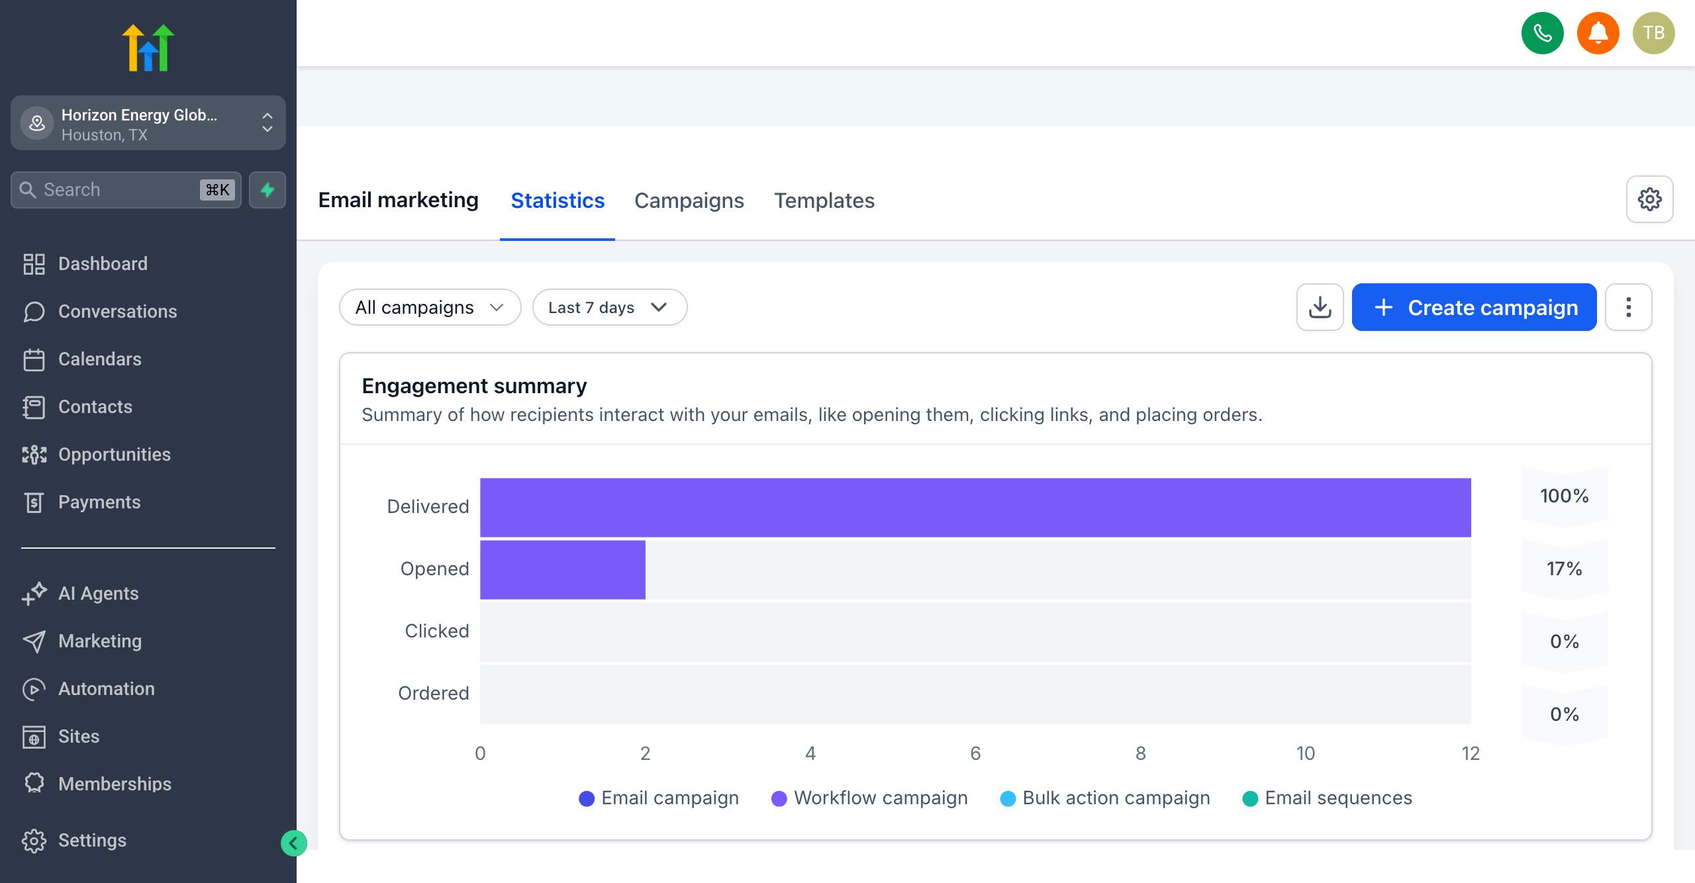
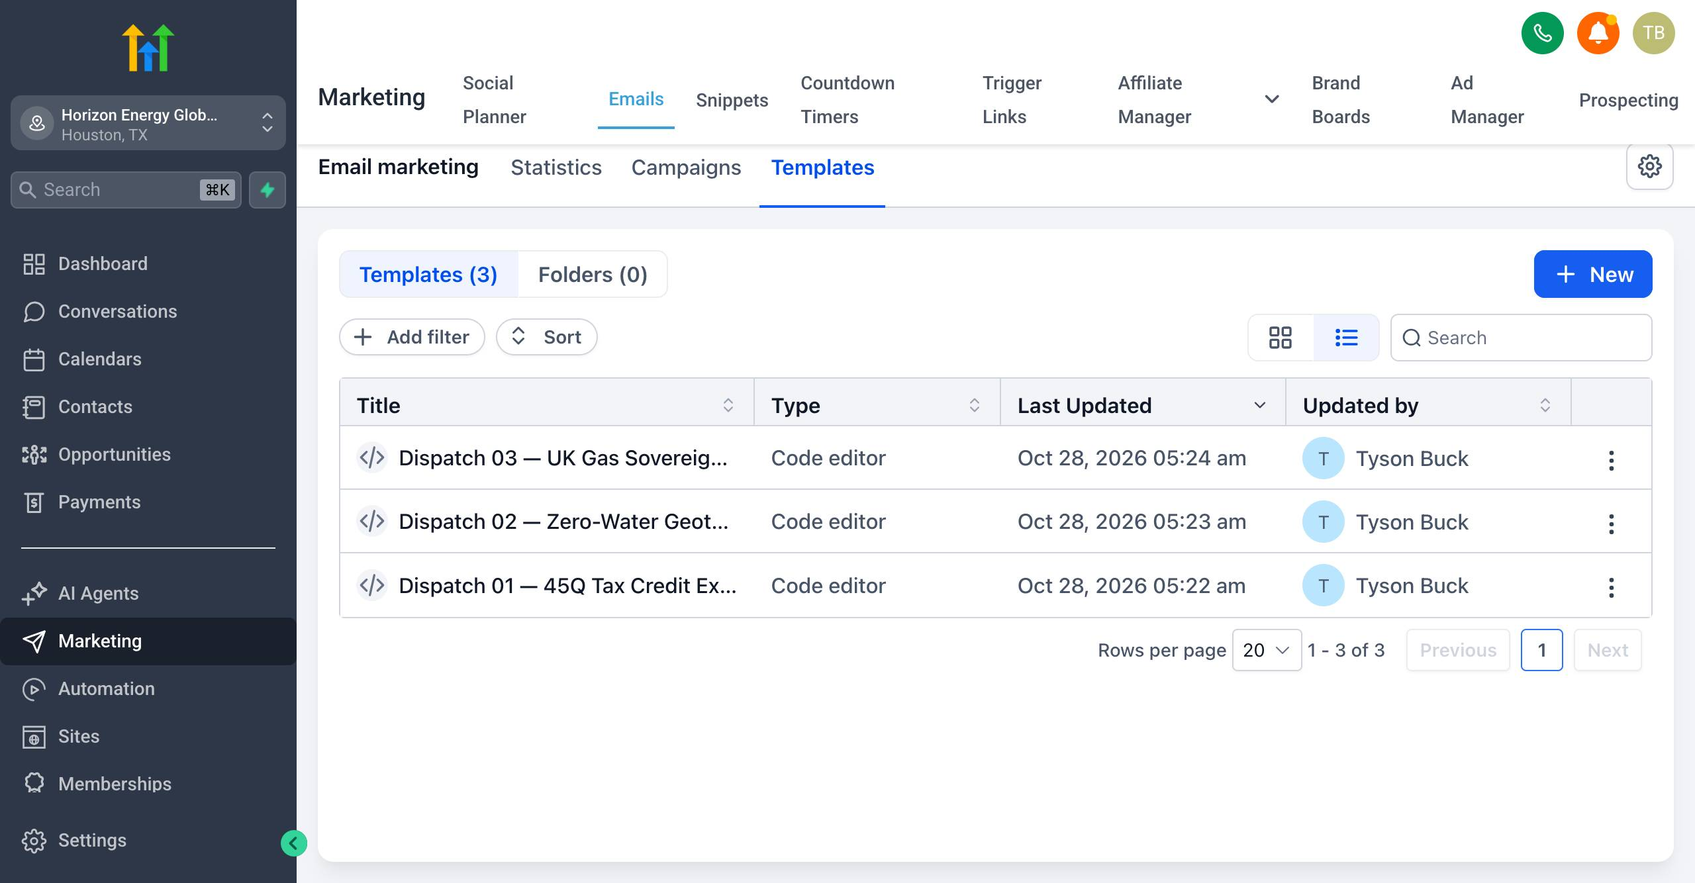
Audit and fix all deep links, screenshots, exact labels, and presenter cache sync

diff --git a/index.html b/index.html
@@ -3,6 +3,9 @@
 <head>
   <meta charset="UTF-8" />
   <meta name="viewport" content="width=device-width, initial-scale=1.0" />
+  <meta http-equiv="Cache-Control" content="no-cache, no-store, must-revalidate" />
+  <meta http-equiv="Pragma" content="no-cache" />
+  <meta http-equiv="Expires" content="0" />
   <title>Horizon Energy Global — GoHighLevel System Guide &amp; Live Test Walkthrough</title>
   <style>
     :root {
@@ -754,8 +757,8 @@
               <div class="task-check" onclick="toggleTask('1-1')">✓</div>
               <div class="task-content">
                 <div class="task-step-label">Step 1.1</div>
-                <div class="task-title">Submit a Dummy Accredited Investor ("Request VDR Access" on /investors/)</div>
-                <div class="task-desc">Open <strong>horizonenergyglobal.com/investors/</strong>, click <strong>"Request VDR Access"</strong>, and fill out the modal with the test investor below (click any row to copy). Check the <strong>Rule 501 Accredited Investor</strong> box and click <strong>Submit &amp; Receive NDA</strong>.</div>
+                <div class="task-title">Submit a Dummy Accredited Investor ("Enter Virtual Data Room (VDR)" on /investors/)</div>
+                <div class="task-desc">Open <strong>horizonenergyglobal.com/investors/</strong>, click the blue <strong>"Enter Virtual Data Room (VDR)"</strong> button (or <strong>"Authenticate &amp; Access VDR"</strong>), and fill out the modal with the test investor below (click any row to copy). Check the <strong>Rule 501 Accredited Investor</strong> box and click <strong>Submit &amp; Receive NDA</strong>.</div>
 
                 <div class="test-data-box">
                   <div class="test-data-header">
@@ -764,17 +767,17 @@
                   </div>
                   <div class="test-data-grid">
                     <div class="test-row">
-                      <span class="test-label">Full Name</span>
+                      <span class="test-label">Full Name *</span>
                       <span class="test-val">Eleanor Vance (Test Investor)</span>
                       <button class="copy-chip" onclick="copyText('Eleanor Vance (Test Investor)', this)">Copy</button>
                     </div>
                     <div class="test-row">
-                      <span class="test-label">Institution / Firm</span>
+                      <span class="test-label">Institution / Firm *</span>
                       <span class="test-val">Apex Energy Capital</span>
                       <button class="copy-chip" onclick="copyText('Apex Energy Capital', this)">Copy</button>
                     </div>
                     <div class="test-row">
-                      <span class="test-label">Direct Phone</span>
+                      <span class="test-label">Direct Phone *</span>
                       <span class="test-val">+1 (713) 555-0190</span>
                       <button class="copy-chip" onclick="copyText('+1 (713) 555-0190', this)">Copy</button>
                     </div>
@@ -783,12 +786,12 @@
                       <span class="test-val">Classification: Institutional Fund / PE • Check Size: $5M–$10M • Region: US</span>
                     </div>
                     <div class="test-row">
-                      <span class="test-label">Pillar Interest</span>
+                      <span class="test-label">Pillar Interest *</span>
                       <span class="test-val">Check: Corporate / Seed Raise + Geothermal CaaS + CCUS / 45Q</span>
                     </div>
                   </div>
                   <div class="email-tip-box">
-                    <strong>Corporate Email Field:</strong> Enter your own personal/secondary email (or <code>marc+test@horizonenergyglobal.com</code>) so the live <strong>Delaware Mutual NDA</strong> e-signature link arrives in your inbox for Section 2.
+                    <strong>Corporate Email * Field:</strong> Enter your own personal/secondary email (or <code>marc+test@horizonenergyglobal.com</code>) so the live <strong>Delaware Mutual NDA</strong> e-signature link arrives in your inbox for Section 2.
                   </div>
                 </div>
 
@@ -808,7 +811,7 @@
               <div class="task-content">
                 <div class="task-step-label">Step 1.2</div>
                 <div class="task-title">Submit a Dummy Commercial Partner (/contact/ Secure Inquiry Routing)</div>
-                <div class="task-desc">Open <strong>horizonenergyglobal.com/contact/</strong>, select the <strong>AI Hyperscale CaaS Infrastructure Desk</strong> (or <strong>CCUS</strong>), and submit the test commercial lead below so you can watch it route into the Commercial Pipeline and send the whitepaper automatically.</div>
+                <div class="task-desc">Open <strong>horizonenergyglobal.com/contact/</strong>, set <strong>Primary Area of Inquiry</strong> to <strong>"AI Data Center Geothermal Cooling (CaaS)"</strong>, fill in the test partner below, and click <strong>"Dispatch Inquiry to Marc"</strong> so you can watch it route into the Geothermal CaaS pipeline.</div>
 
                 <div class="test-data-box">
                   <div class="test-data-header">
@@ -817,28 +820,32 @@
                   </div>
                   <div class="test-data-grid">
                     <div class="test-row">
-                      <span class="test-label">Full Name</span>
+                      <span class="test-label">Primary Area of Inquiry</span>
+                      <span class="test-val">Select: AI Data Center Geothermal Cooling (CaaS)</span>
+                    </div>
+                    <div class="test-row">
+                      <span class="test-label">Full Name *</span>
                       <span class="test-val">Marcus Sterling (Test Partner)</span>
                       <button class="copy-chip" onclick="copyText('Marcus Sterling (Test Partner)', this)">Copy</button>
                     </div>
                     <div class="test-row">
-                      <span class="test-label">Organization</span>
+                      <span class="test-label">Organization / Firm *</span>
                       <span class="test-val">HyperScale Cloud Corp</span>
                       <button class="copy-chip" onclick="copyText('HyperScale Cloud Corp', this)">Copy</button>
                     </div>
                     <div class="test-row">
-                      <span class="test-label">Phone</span>
+                      <span class="test-label">Direct Telephone</span>
                       <span class="test-val">+1 (512) 555-0144</span>
                       <button class="copy-chip" onclick="copyText('+1 (512) 555-0144', this)">Copy</button>
                     </div>
                     <div class="test-row">
-                      <span class="test-label">Message / Mandate</span>
+                      <span class="test-label">Inquiry Details &amp; Scope *</span>
                       <span class="test-val">Requesting technical site screening for a 150MW closed-loop geothermal cooling deployment in ERCOT.</span>
                       <button class="copy-chip" onclick="copyText('Requesting technical site screening for a 150MW closed-loop geothermal cooling deployment in ERCOT.', this)">Copy</button>
                     </div>
                   </div>
                   <div class="email-tip-box">
-                    <strong>Work Email Field:</strong> Use a second email address (e.g., Troy's email or <code>troy+test@horizonenergyglobal.com</code>) so GHL creates a separate contact record from Test #1.
+                    <strong>Corporate Work Email * Field:</strong> Use a second email address (e.g., Troy's email or <code>troy+test@horizonenergyglobal.com</code>) so GHL creates a separate contact record from Test #1.
                   </div>
                 </div>
 
@@ -894,13 +901,13 @@
             <div class="screen-bar">
               <span>WEBSITE REFERENCE: horizonenergyglobal.com/investors/</span>
             </div>
-            <img src="screenshots/10_website_investors.jpg" alt="Website Investors Page" />
+            <img src="screenshots/10_website_investors.jpg?v=4" alt="Website Investors Page" />
           </div>
           <div class="screen-frame">
             <div class="screen-bar">
               <span>GHL AUTOMATION ENGINE: 11 Published Workflows</span>
             </div>
-            <img src="screenshots/01_workflows.jpg" alt="11 Published Workflows" />
+            <img src="screenshots/01_workflows.jpg?v=4" alt="11 Published Workflows" />
           </div>
         </div>
       </div>
@@ -995,13 +1002,13 @@
             <div class="screen-bar">
               <span>GHL SCREEN REFERENCE: Payments → Documents &amp; Contracts → Templates</span>
             </div>
-            <img src="screenshots/06_nda_templates.jpg" alt="Delaware Mutual NDA Template" />
+            <img src="screenshots/06_nda_templates.jpg?v=4" alt="Delaware Mutual NDA Template" />
           </div>
           <div class="screen-frame">
             <div class="screen-bar">
               <span>GHL SCREEN REFERENCE: Memberships → Courses → Products (8-Module VDR)</span>
             </div>
-            <img src="screenshots/05_dataroom_courses.jpg" alt="Horizon Investor Data Room" />
+            <img src="screenshots/05_dataroom_courses.jpg?v=4" alt="Horizon Investor Data Room" />
           </div>
         </div>
       </div>
@@ -1106,7 +1113,7 @@
             <div class="screen-bar">
               <span>GHL SCREEN REFERENCE: Opportunities → Seed Raise ($20M)</span>
             </div>
-            <img src="screenshots/03_opportunities.jpg" alt="Seed Raise $20M Pipeline" />
+            <img src="screenshots/03_opportunities.jpg?v=4" alt="Seed Raise $20M Pipeline" />
           </div>
         </div>
       </div>
@@ -1128,12 +1135,15 @@
           <a class="btn btn-sm btn-ghl" href="https://app.gohighlevel.com/v2/location/JUqOHds1n765fzyHX6en/opportunities/list" target="_blank">
             Open Opportunities Board ↗
           </a>
+          <a class="btn btn-sm btn-outline" href="https://app.gohighlevel.com/v2/location/JUqOHds1n765fzyHX6en/opportunities/pipeline" target="_blank">
+            View All 4 Pipelines ↗
+          </a>
         </div>
       </div>
 
       <div class="coach-box">
         <div class="coach-title">Tyson's Private Coach Note (Hidden on Client Screen)</div>
-        <p>Have Marc click the pipeline dropdown at the top-left of <strong>Opportunities</strong> and switch to <strong>Geothermal CaaS</strong>. He'll see <strong>Marcus Sterling (Test Partner)</strong> from Step 1.2 already sitting in <strong>New Inquiry</strong>! Have him add a <code>12000000</code> ($12M) contract value and drag it to <strong>Technical / Site Screening</strong>.</p>
+        <p>Have Marc click the pipeline dropdown at the top-left of <strong>Opportunities</strong> and switch to <strong>Geothermal CaaS (Hyperscaler)</strong>. He'll see <strong>Marcus Sterling (Test Partner)</strong> from Step 1.2 already sitting in <strong>New Inquiry</strong>! Have him add a <code>12000000</code> ($12M) contract value and drag it to the next stage.</p>
       </div>
 
       <div class="stop-grid">
@@ -1146,8 +1156,8 @@
               <div class="task-check" onclick="toggleTask('4-1')">✓</div>
               <div class="task-content">
                 <div class="task-step-label">Step 4.1</div>
-                <div class="task-title">Switch the Pipeline Dropdown to "Geothermal CaaS" &amp; Find Marcus Sterling</div>
-                <div class="task-desc">At the top-left of <strong>Opportunities</strong>, click the pipeline selector dropdown (currently showing <em>Seed Raise ($20M)</em>) and choose <strong>Geothermal CaaS</strong>. Locate the <strong>Marcus Sterling (Test Partner)</strong> card that was automatically routed from your Step 1.2 contact form submission.</div>
+                <div class="task-title">Switch the Pipeline Dropdown to "Geothermal CaaS (Hyperscaler)" &amp; Find Marcus Sterling</div>
+                <div class="task-desc">At the top-left of <strong>Opportunities</strong>, click the pipeline selector dropdown (currently showing <em>Seed Raise ($20M)</em>) and choose <strong>Geothermal CaaS (Hyperscaler)</strong>. Locate the <strong>Marcus Sterling (Test Partner)</strong> card that was automatically routed from your Step 1.2 contact form submission.</div>
                 <div class="task-actions">
                   <a class="btn btn-sm btn-ghl" href="https://app.gohighlevel.com/v2/location/JUqOHds1n765fzyHX6en/opportunities/list" target="_blank">Open Opportunities Dropdown ↗</a>
                   <button class="btn btn-sm btn-outline" onclick="toggleTask('4-1')">Mark Complete ✓</button>
@@ -1163,13 +1173,13 @@
               <div class="task-check" onclick="toggleTask('4-2')">✓</div>
               <div class="task-content">
                 <div class="task-step-label">Step 4.2</div>
-                <div class="task-title">Add a $12,000,000 Offtake Value &amp; Drag to "Technical / Site Screening"</div>
-                <div class="task-desc">Click the <strong>Marcus Sterling</strong> card, enter <code>12000000</code> in <strong>Opportunity Value ($)</strong>, click <strong>Save</strong>, and drag the card to <strong>Technical / Site Screening</strong>. Then preview the <strong>CCUS — Commercial</strong> and <strong>UKCS Farm-Out &amp; JV</strong> pipelines in the same dropdown.</div>
+                <div class="task-title">Add a $12,000,000 Offtake Value &amp; Preview All 4 Pipelines</div>
+                <div class="task-desc">Click the <strong>Marcus Sterling</strong> card, enter <code>12000000</code> in <strong>Opportunity Value ($)</strong>, click <strong>Save</strong>, and drag the card to the next stage. Then preview the other commercial pipelines (<strong>CCUS Offtake / 45Q</strong> and <strong>UKCS JV / Farmout</strong>) or click <strong>View All 4 Pipelines Setup</strong> below.</div>
 
                 <div class="test-data-box">
                   <div class="test-data-header">
                     <span>Test Commercial Deal Value — Click to Copy</span>
-                    <span>Geothermal CaaS Pipeline</span>
+                    <span>Geothermal CaaS (Hyperscaler)</span>
                   </div>
                   <div class="test-data-grid">
                     <div class="test-row">
@@ -1181,7 +1191,7 @@
                 </div>
 
                 <div class="task-actions">
-                  <a class="btn btn-sm btn-outline" href="https://app.gohighlevel.com/v2/location/JUqOHds1n765fzyHX6en/opportunities/pipelines" target="_blank">View All 4 Pipelines Setup ↗</a>
+                  <a class="btn btn-sm btn-outline" href="https://app.gohighlevel.com/v2/location/JUqOHds1n765fzyHX6en/opportunities/pipeline" target="_blank">View All 4 Pipelines Setup ↗</a>
                   <button class="btn btn-sm btn-outline" onclick="toggleTask('4-2')">Mark Complete ✓</button>
                   <button class="btn btn-sm btn-amber spotlight-btn" onclick="presenterSpotlight(4, '4-2')">🔦 Spotlight Step</button>
                 </div>
@@ -1196,7 +1206,7 @@
             <div class="screen-bar">
               <span>GHL SCREEN REFERENCE: Opportunities → Pipelines (All 4 Pipelines)</span>
             </div>
-            <img src="screenshots/11_all_4_pipelines.jpg" alt="All 4 Pipelines" />
+            <img src="screenshots/11_all_4_pipelines.jpg?v=4" alt="All 4 Pipelines" />
           </div>
         </div>
       </div>
@@ -1237,7 +1247,7 @@
               <div class="task-content">
                 <div class="task-step-label">Step 5.1</div>
                 <div class="task-title">Open "Raise Command Center" &amp; Review the Live Populated Widgets</div>
-                <div class="task-desc">Click <strong>Dashboard</strong> in the left navigation bar. Confirm that your live test actions from Sections 1–4 are now reflected across the executive tiles: <strong>$5,000,000 Soft-Circled</strong> toward the $20M target, <strong>NDA Sent → Signed</strong> conversion, <strong>Seed Pipeline by Stage</strong>, <strong>Investor Classification</strong> breakdown, and <strong>$12,000,000</strong> in the Geothermal CaaS pipeline.</div>
+                <div class="task-desc">Click <strong>Dashboard</strong> in the left navigation bar. Confirm that your live test actions from Sections 1–4 are now reflected across the executive tiles: <strong>$5,000,000 Soft-Circled</strong> toward the $20M target, <strong>NDA Sent → Signed</strong> conversion, <strong>Seed Pipeline by Stage</strong>, <strong>Investor Classification</strong> breakdown, and <strong>$12,000,000</strong> in the Geothermal CaaS (Hyperscaler) pipeline.</div>
                 <div class="task-actions">
                   <a class="btn btn-sm btn-ghl" href="https://app.gohighlevel.com/v2/location/JUqOHds1n765fzyHX6en/dashboard" target="_blank">Open Raise Command Center in GHL ↗</a>
                   <button class="btn btn-sm btn-outline" onclick="toggleTask('5-1')">Mark Complete ✓</button>
@@ -1270,7 +1280,7 @@
             <div class="screen-bar">
               <span>GHL SCREEN REFERENCE: Dashboard → Raise Command Center</span>
             </div>
-            <img src="screenshots/02_dashboard.jpg" alt="Raise Command Center Dashboard" />
+            <img src="screenshots/02_dashboard.jpg?v=4" alt="Raise Command Center Dashboard" />
           </div>
         </div>
       </div>
@@ -1314,7 +1324,7 @@
               <div class="task-content">
                 <div class="task-step-label">Step 6.1</div>
                 <div class="task-title">Inspect Your Test Records Across the 8 Smart Lists (Contacts)</div>
-                <div class="task-desc">Open <strong>Contacts</strong> and click through the 8 pre-built Smart List tabs across the top bar (<em>All Investors</em>, <em>VDR Granted</em>, <em>Hot Investors</em>, <em>Hyperscalers</em>, etc.). Click on <strong>Eleanor Vance (Test Investor)</strong> to see her populated custom fields (<code>Apex Energy Capital</code>, <code>$5M–$10M</code>, <code>NDA Signed</code>, <code>VDR Granted</code>) and automated tags.</div>
+                <div class="task-desc">Open <strong>Contacts</strong> and click through the Smart List tabs across the top bar (<em>All Investors</em>, <em>Hot Investors</em>, <em>VDR Granted</em>, plus the <strong>5 More</strong> dropdown: <em>Hyperscalers</em>, <em>CCUS Partners</em>, <em>UKCS Partners</em>, <em>Dispatch Subscribers</em>, and <em>Stale Deals</em>). Click on <strong>Eleanor Vance (Test Investor)</strong> to see her populated custom fields (<code>Apex Energy Capital</code>, <code>$5M–$10M</code>) and automated tags.</div>
                 <div class="task-actions">
                   <a class="btn btn-sm btn-ghl" href="https://app.gohighlevel.com/v2/location/JUqOHds1n765fzyHX6en/contacts/smart_list/All" target="_blank">Open Contacts &amp; 8 Smart Lists ↗</a>
                   <button class="btn btn-sm btn-outline" onclick="toggleTask('6-1')">Mark Complete ✓</button>
@@ -1380,9 +1390,9 @@
               <div class="task-content">
                 <div class="task-step-label">Step 6.4</div>
                 <div class="task-title">Preview the 3 Pre-Built Quarterly Investor Dispatches</div>
-                <div class="task-desc">Open <strong>Marketing → Emails → Templates</strong> to preview your 3 pre-built institutional email dispatches (<em>01 — Investor Welcome &amp; Thesis Overview</em>, <em>02 — Three-Pillar Asset &amp; Engineering Update</em>, and <em>03 — Seed Round Momentum &amp; Final Allocation Notice</em>). Click <strong>Send Test Email</strong> inside the builder if you want to preview one in your inbox.</div>
+                <div class="task-desc">Open <strong>Marketing → Emails → Templates</strong> to preview your 3 pre-built institutional email dispatches (<em>Dispatch 01 — 45Q Tax Credit Expansion &amp; EPA Class VI</em>, <em>Dispatch 02 — Zero-Water Geothermal CaaS for AI Data Centers</em>, and <em>Dispatch 03 — UK Gas Sovereignty &amp; Licence P2690 (Dabinett)</em>). Click into any dispatch to review the layout or send a test preview.</div>
                 <div class="task-actions">
-                  <a class="btn btn-sm btn-ghl" href="https://app.gohighlevel.com/v2/location/JUqOHds1n765fzyHX6en/marketing/emails/templates" target="_blank">Open Email Dispatch Templates ↗</a>
+                  <a class="btn btn-sm btn-ghl" href="https://app.gohighlevel.com/v2/location/JUqOHds1n765fzyHX6en/marketing/emails/all?pageNumber=1" target="_blank">Open Email Dispatch Templates ↗</a>
                   <button class="btn btn-sm btn-outline" onclick="toggleTask('6-4')">Mark Complete ✓</button>
                   <button class="btn btn-sm btn-amber spotlight-btn" onclick="presenterSpotlight(6, '6-4')">🔦 Spotlight Step</button>
                 </div>
@@ -1397,19 +1407,19 @@
             <div class="screen-bar">
               <span>GHL SCREEN REFERENCE: Contacts → 8 Smart List Tabs</span>
             </div>
-            <img src="screenshots/04_smart_lists.jpg" alt="8 Smart Lists" />
+            <img src="screenshots/04_smart_lists.jpg?v=4" alt="8 Smart Lists" />
           </div>
           <div class="screen-frame">
             <div class="screen-bar">
               <span>GHL SCREEN REFERENCE: AI Agents → Agent Studio → Managed Agents</span>
             </div>
-            <img src="screenshots/12_agent_studio.jpg" alt="Agent Studio" />
+            <img src="screenshots/12_agent_studio.jpg?v=4" alt="Agent Studio" />
           </div>
           <div class="screen-frame">
             <div class="screen-bar">
-              <span>GHL SCREEN REFERENCE: Marketing → Emails → Templates</span>
+              <span>GHL SCREEN REFERENCE: Marketing → Emails → Templates (3 Dispatches)</span>
             </div>
-            <img src="screenshots/08_email_templates.jpg" alt="Email Templates" />
+            <img src="screenshots/08_email_templates.jpg?v=4" alt="Email Templates" />
           </div>
         </div>
       </div>
@@ -1506,11 +1516,27 @@
   </div>
 
   <script>
+    const APP_BUILD_ID = '20261028-v4';
     const params = new URLSearchParams(window.location.search);
-    const isPresenter = params.get('presenter') === '1' || params.get('presenter') === 'tyson';
+    const isPresenter = params.get('presenter') === '1' || params.get('presenter') === 'tyson' || window.location.hash.includes('presenter');
     if (isPresenter) {
       document.body.classList.add('is-presenter');
     }
+
+    // Automatic cache-verification check so ?presenter=1 and / never serve mismatched cached HTML
+    (async function verifyFreshBuild() {
+      try {
+        const res = await fetch(window.location.pathname + '?cb=' + Date.now(), { cache: 'no-store' });
+        if (res.ok) {
+          const html = await res.text();
+          if (!html.includes(APP_BUILD_ID) && !params.get('reloaded')) {
+            params.set('v', APP_BUILD_ID);
+            params.set('reloaded', '1');
+            window.location.replace(window.location.pathname + '?' + params.toString() + window.location.hash);
+          }
+        }
+      } catch (e) {}
+    })();
 
     function copyText(text, btn) {
       navigator.clipboard.writeText(text).then(() => {
@@ -1531,16 +1557,25 @@
       completed: {},
       scrollSeq: 0,
       spotlightSeq: 0,
-      spotlightTarget: ''
+      spotlightTarget: '',
+      buildId: APP_BUILD_ID
     };
 
     function applyState(newState, isInitial) {
+      // If a peer publishes from a newer build, automatically bust cache on this tab
+      if (newState.buildId && newState.buildId !== APP_BUILD_ID && !params.get('v')) {
+        params.set('v', newState.buildId);
+        window.location.replace(window.location.pathname + '?' + params.toString() + window.location.hash);
+        return;
+      }
+
       const stopChangedOrPulled = !isInitial && (newState.scrollSeq !== localState.scrollSeq);
       const spotlightChanged = !isInitial && (newState.spotlightSeq !== localState.spotlightSeq);
 
       localState = {
         ...localState,
         ...newState,
+        buildId: APP_BUILD_ID,
         completed: (newState.completed && typeof newState.completed === 'object') ? newState.completed : {}
       };
 
@@ -1601,6 +1636,7 @@
     const NTFY_URL = 'https://ntfy.sh/' + SYNC_TOPIC;
 
     async function publishState(nextState) {
+      nextState.buildId = APP_BUILD_ID;
       applyState(nextState, false);
       try {
         await fetch(NTFY_URL, {
@@ -1684,6 +1720,8 @@
           scrollSeq: (localState.scrollSeq || 0) + 1,
           spotlightSeq: 0,
           spotlightTarget: '',
+          spotlightSection: 0,
+          buildId: APP_BUILD_ID,
           updatedAt: Date.now()
         };
         publishState(next);
